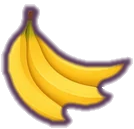
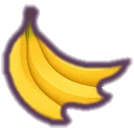
art fixes for NO-GO 45a3: milk-bottle reroll to SVG (cap/label/heart, 6px ring), bananas+chick 6px contour; bud-vase confirmed byte-identical to approved ee655bc

Changed region(s): [[0.0299, 0.093, 0.9254, 0.9612]]

diff --git a/PROGRESS.md b/PROGRESS.md
@@ -42,3 +42,8 @@
 - 2026-10-20 CDT  Kitchen pack items (cursor/art-rollout-themed): 32 new paintings in assets/art/kitchen/pack~*.webp, all FO/fit within ±2% in game and stretch within 18%. Prompts used the item's own SVG png as a shape reference; items first painted too narrow and widened past 18% (fridge, sink, stool, high-chair, hutch, pantry, pendant, rug) were repainted at true proportions.
   - pet-bowl and chick: both are static, placeable catalog items (plain SVGs in assets/items/manifest.json, kitchen room; nothing in src animates them or treats them as live pets/ranch creatures). Decision: PAINTED under the same rules so the kitchen converts whole. pet-bowl FO=0 x0.975, chick CPX=6 FO=1 x0.975 (in game dw/dh 0.0).
   - Sub-pixel x/y refits (work/shrinkx.py, lossless, pinholes ≤40px filled): kettle x0.975, bananas y0.98, milk-bottle x1.02, pet-bowl x0.975, chick x0.975. Lint WARN (advisory) on bananas, milk-bottle.
+- 2026-10-20 03:xx CDT  App Builder NO-GO fixes on 45a332f (art-full-45a3):
+  - bud-vase: restored from ee655bc (`git checkout ee655bc --`). Byte-identical already (blob db0638d); no commit after ee655bc changed it (only merges b22d2c5/6b44c24/c074ff8 carried it unchanged). In game dw 0.0 / dh -1.4, no refit.
+  - milk-bottle rerolled from SVG (blue cap, blue label band, pink heart), body tinted cool white so the cream key keeps it; CPX=7 (ring 6 px), FO=1, x1.02; stretch 1.09; in game dw 0.0 / dh +1.5.
+  - bananas, chick: CPX 6 -> 7 (ring 5 -> 6 px), same fit refits; in game within ±2%.
+  - Faces: not changed in the branch; decision sheet work/faces/face-decision-sheet.png (variants for toaster, happy-fridge, cocoa-mug in work/faces only).
